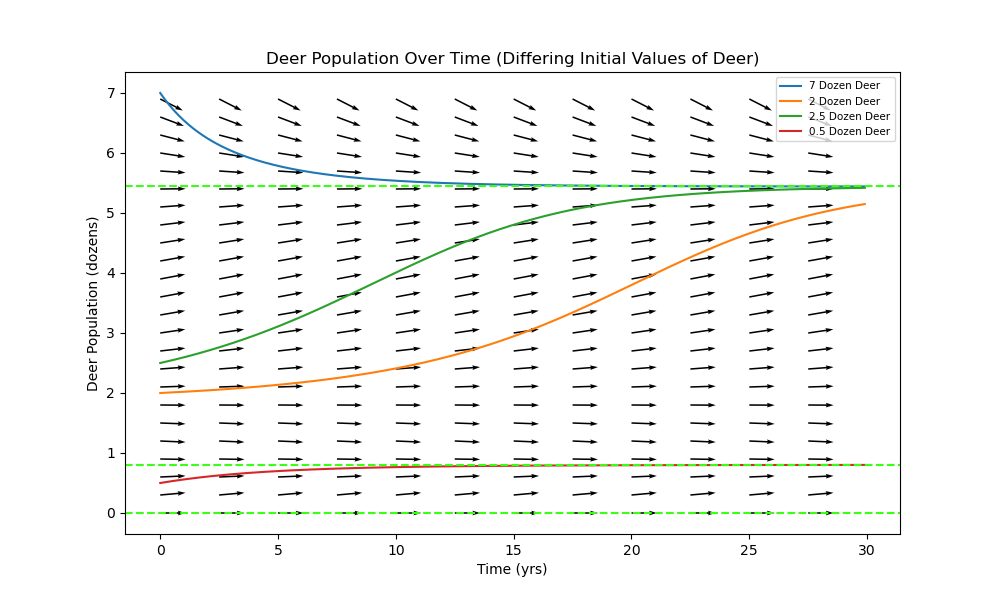
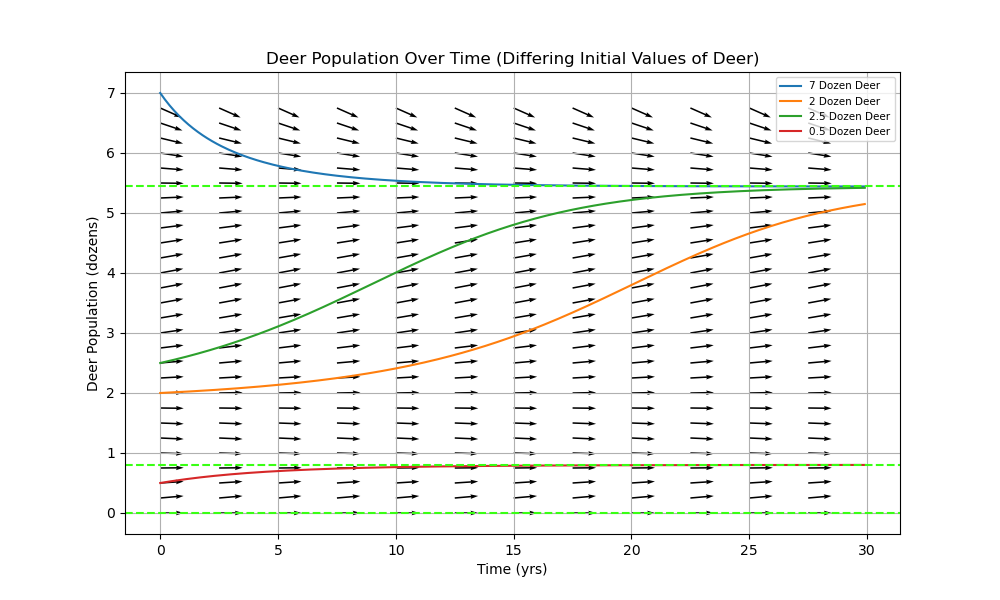
plot a

diff --git a/Code/task_set_a.py b/Code/task_set_a.py
@@ -154,7 +154,7 @@ def task_6_equilibrium_solutions_and_euler():
         ax.axhline(y=roots[i], color='#39FF14', linestyle="dashed")
 
     x = np.arange(0, 30, 2.5)
-    y = np.arange(0, 7, .3)
+    y = np.arange(0, 7, .25)
     dirfield(fxt, x, y)
     
     plt.savefig("plots/task_a_harvesting_with_dirfield.png")

diff --git a/Code/utils.py b/Code/utils.py
@@ -46,6 +46,7 @@ def dirfield(f, X, Y):
     dxu = dx/norm
 
     plt.quiver(x,y,dxu,dyu, width=0.002)
+    plt.grid(True)
     plt.show()
     
 # Task B.1: Differential equation for x1 in the Lotka-Volterra system
